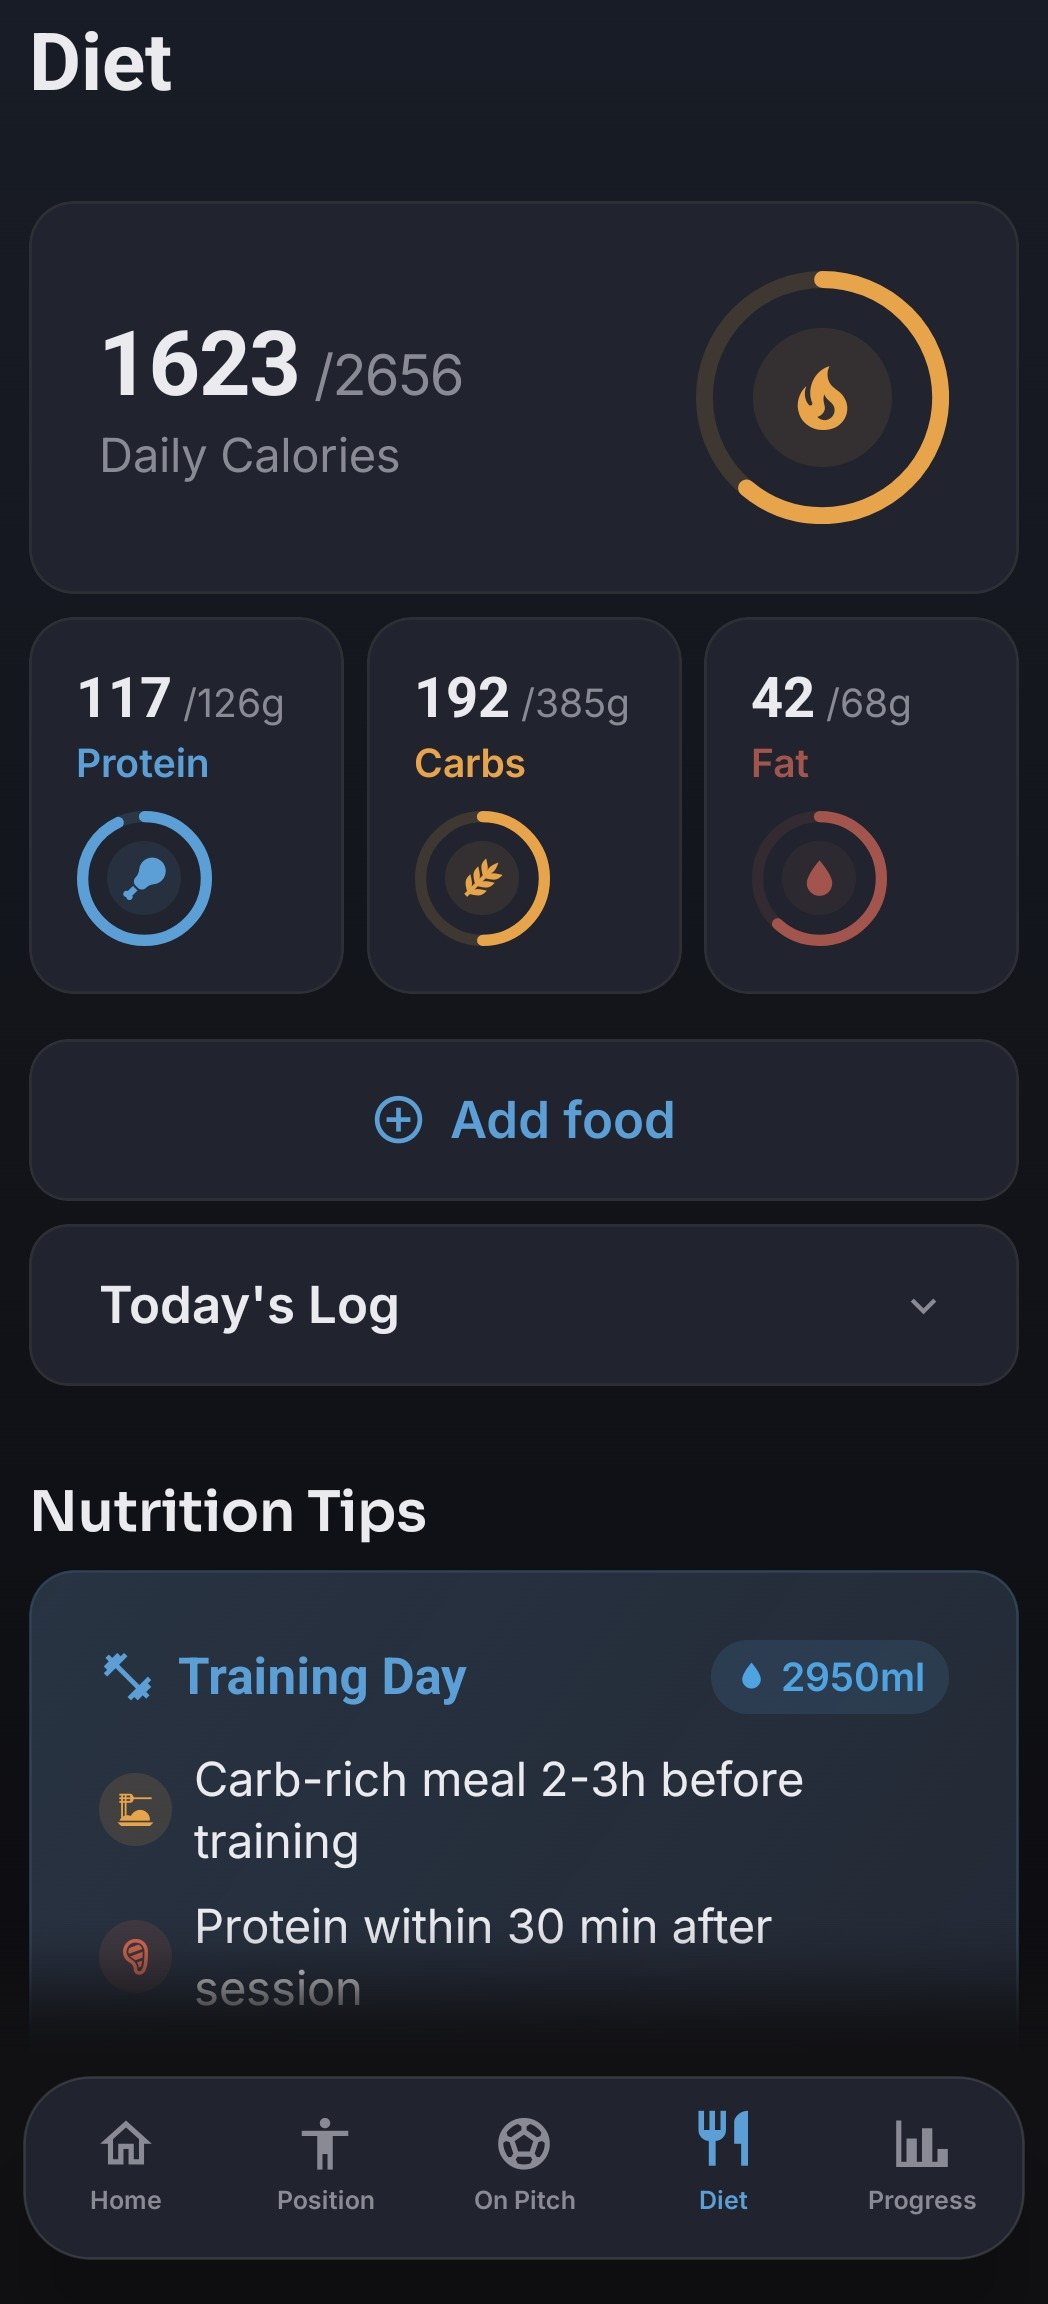
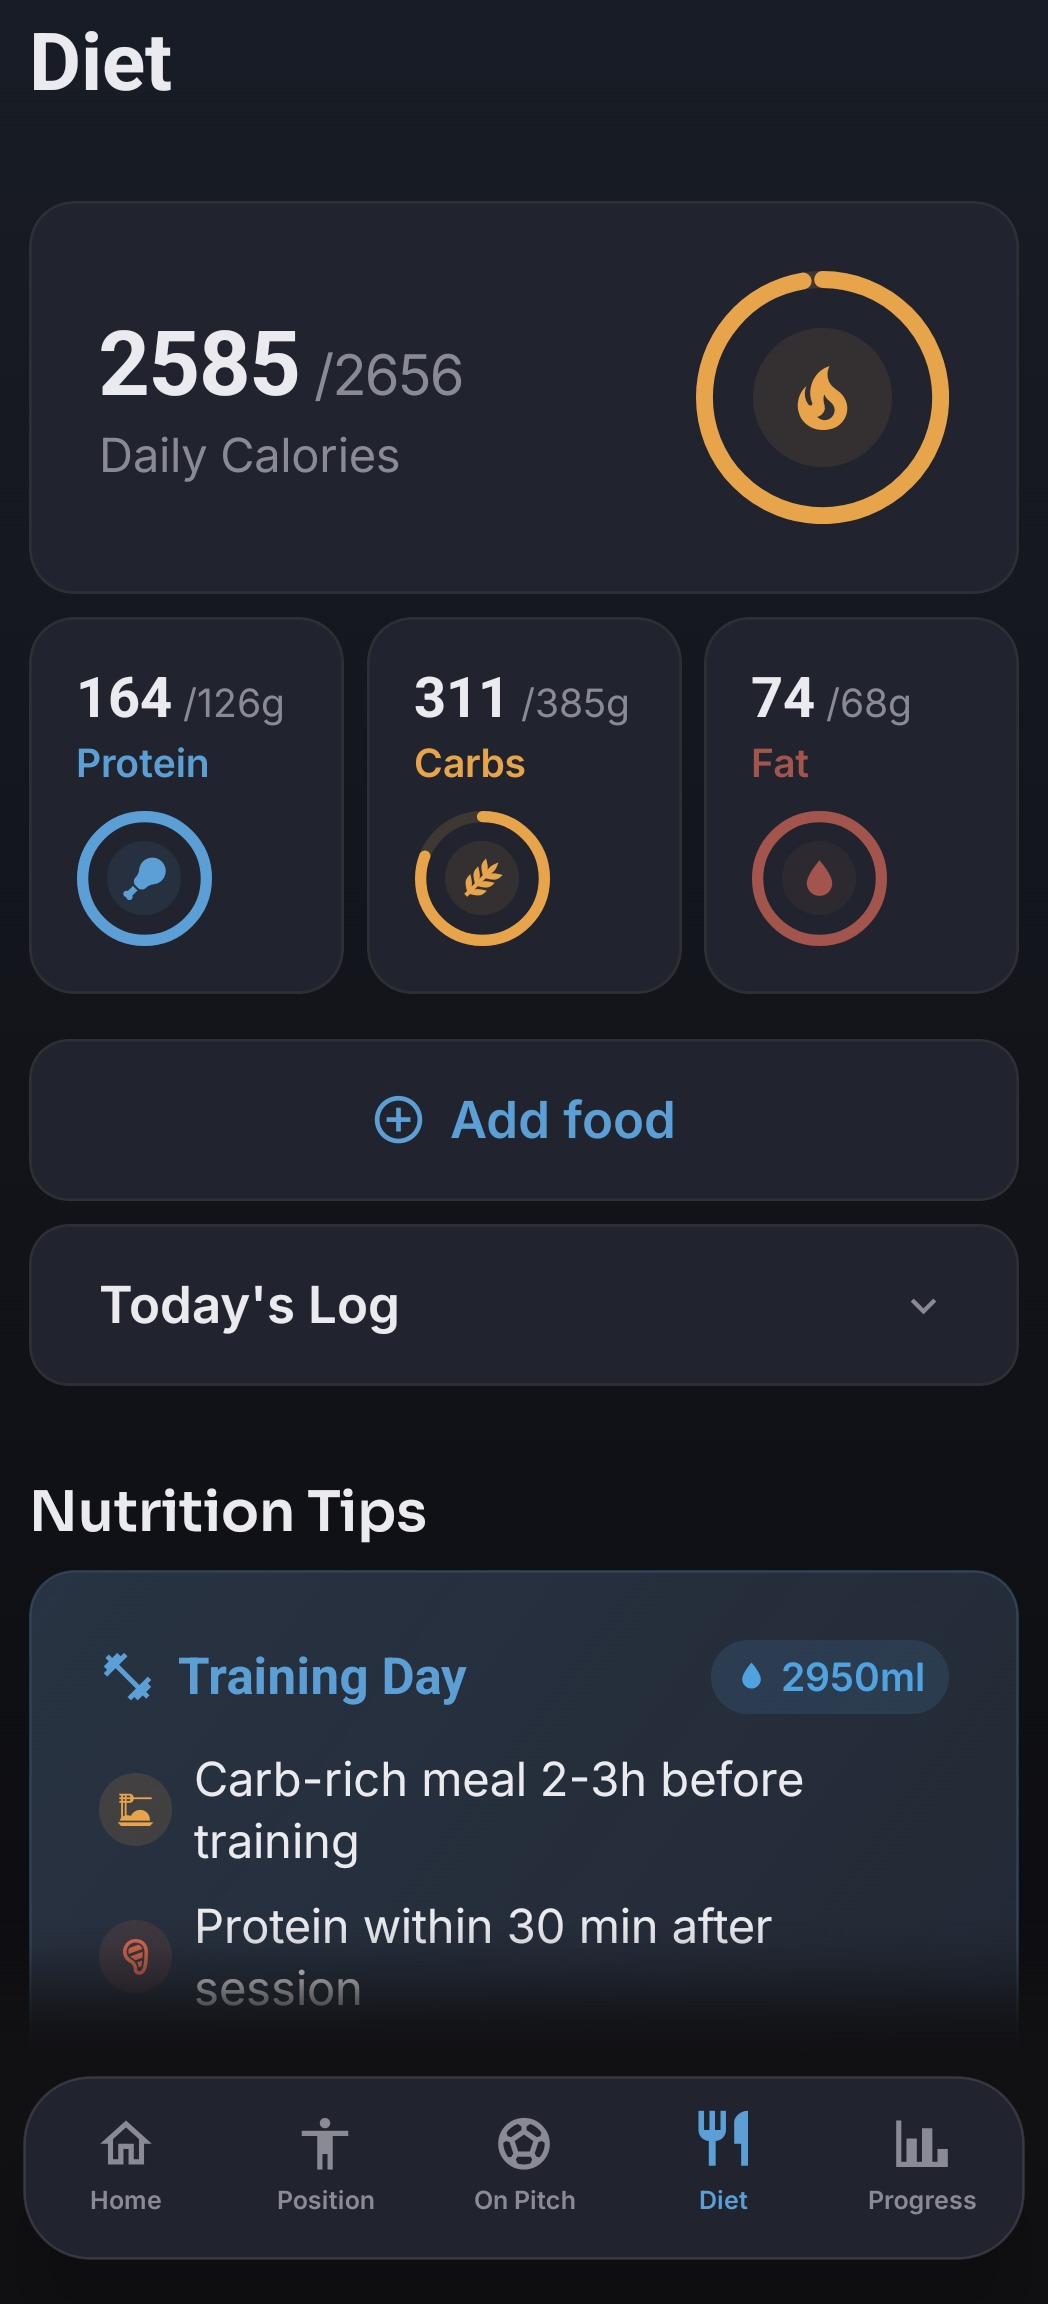
Diet: one composition, five sets of values
Dropped the old 776 rest-day shot, the 1324 dense-account one, and the expanded
Today's Log. The log one looked good but it pushes Nutrition Tips off the
bottom, so the slot was rotating between two different screen shapes rather
than one screen with different numbers on it.

The five now are all the same composition - calorie card, three macro tiles,
Add food, log collapsed, Nutrition Tips in view - at 948, 1158, 1623, 2271 and
2585 kcal, with the macros and every ring fill different.

Values were walked up by logging food and back down by deleting from the top of
Today's Log, which is newest-first, so repeated deletes step through every
intermediate total.

The composition rule is written into assets/screens/README.md so later captures
follow it, along with the one thing this method cannot vary: the Nutrition Tips
card is driven by the day type, so every session-day capture carries the same
Training Day card. Only a capture taken on a rest day gets the other one.

diff --git a/assets/screens/README.md b/assets/screens/README.md
@@ -40,6 +40,29 @@ same account the store screenshots use. What good looks like:
     diet        calories actually logged, not 0 or a token number
     progress    a high completion percentage and a FULL heatmap
 
+### diet has a fixed composition
+
+Every diet capture is the SAME screen: the calorie card, the three macro tiles,
+Add food, Today's Log **collapsed**, and the Nutrition Tips card in view. What
+varies between them is the numbers - calories, macros, how far round each ring
+has gone.
+
+So no expanded Today's Log. It is a good-looking screen and it was in the set
+for a while, but it pushes Nutrition Tips off the bottom, and the slot is meant
+to read as one screen with different values rather than as two different
+screens.
+
+The quickest way to get a new value: log food through the app, capturing as you
+go up, then delete entries from the top of Today's Log to walk back down. The
+log is newest-first, so deleting the top row repeatedly steps the total down
+through every intermediate value.
+
+One thing that does NOT vary this way: the Nutrition Tips card itself. It is
+driven by the day type, so a session day gives the same Training Day card with
+the same water target every time. A capture taken on a REST day is the only way
+to get the other card - different colour, different lines, different target -
+so it is worth grabbing one next time a rest day comes round.
+
 Re-seeding, the quota rules, and the account details are all in
 `FootballApp/screenshots/README.md`. Read the Firestore section before you start
 - a capture session has taken the whole daily read quota down before, for real
